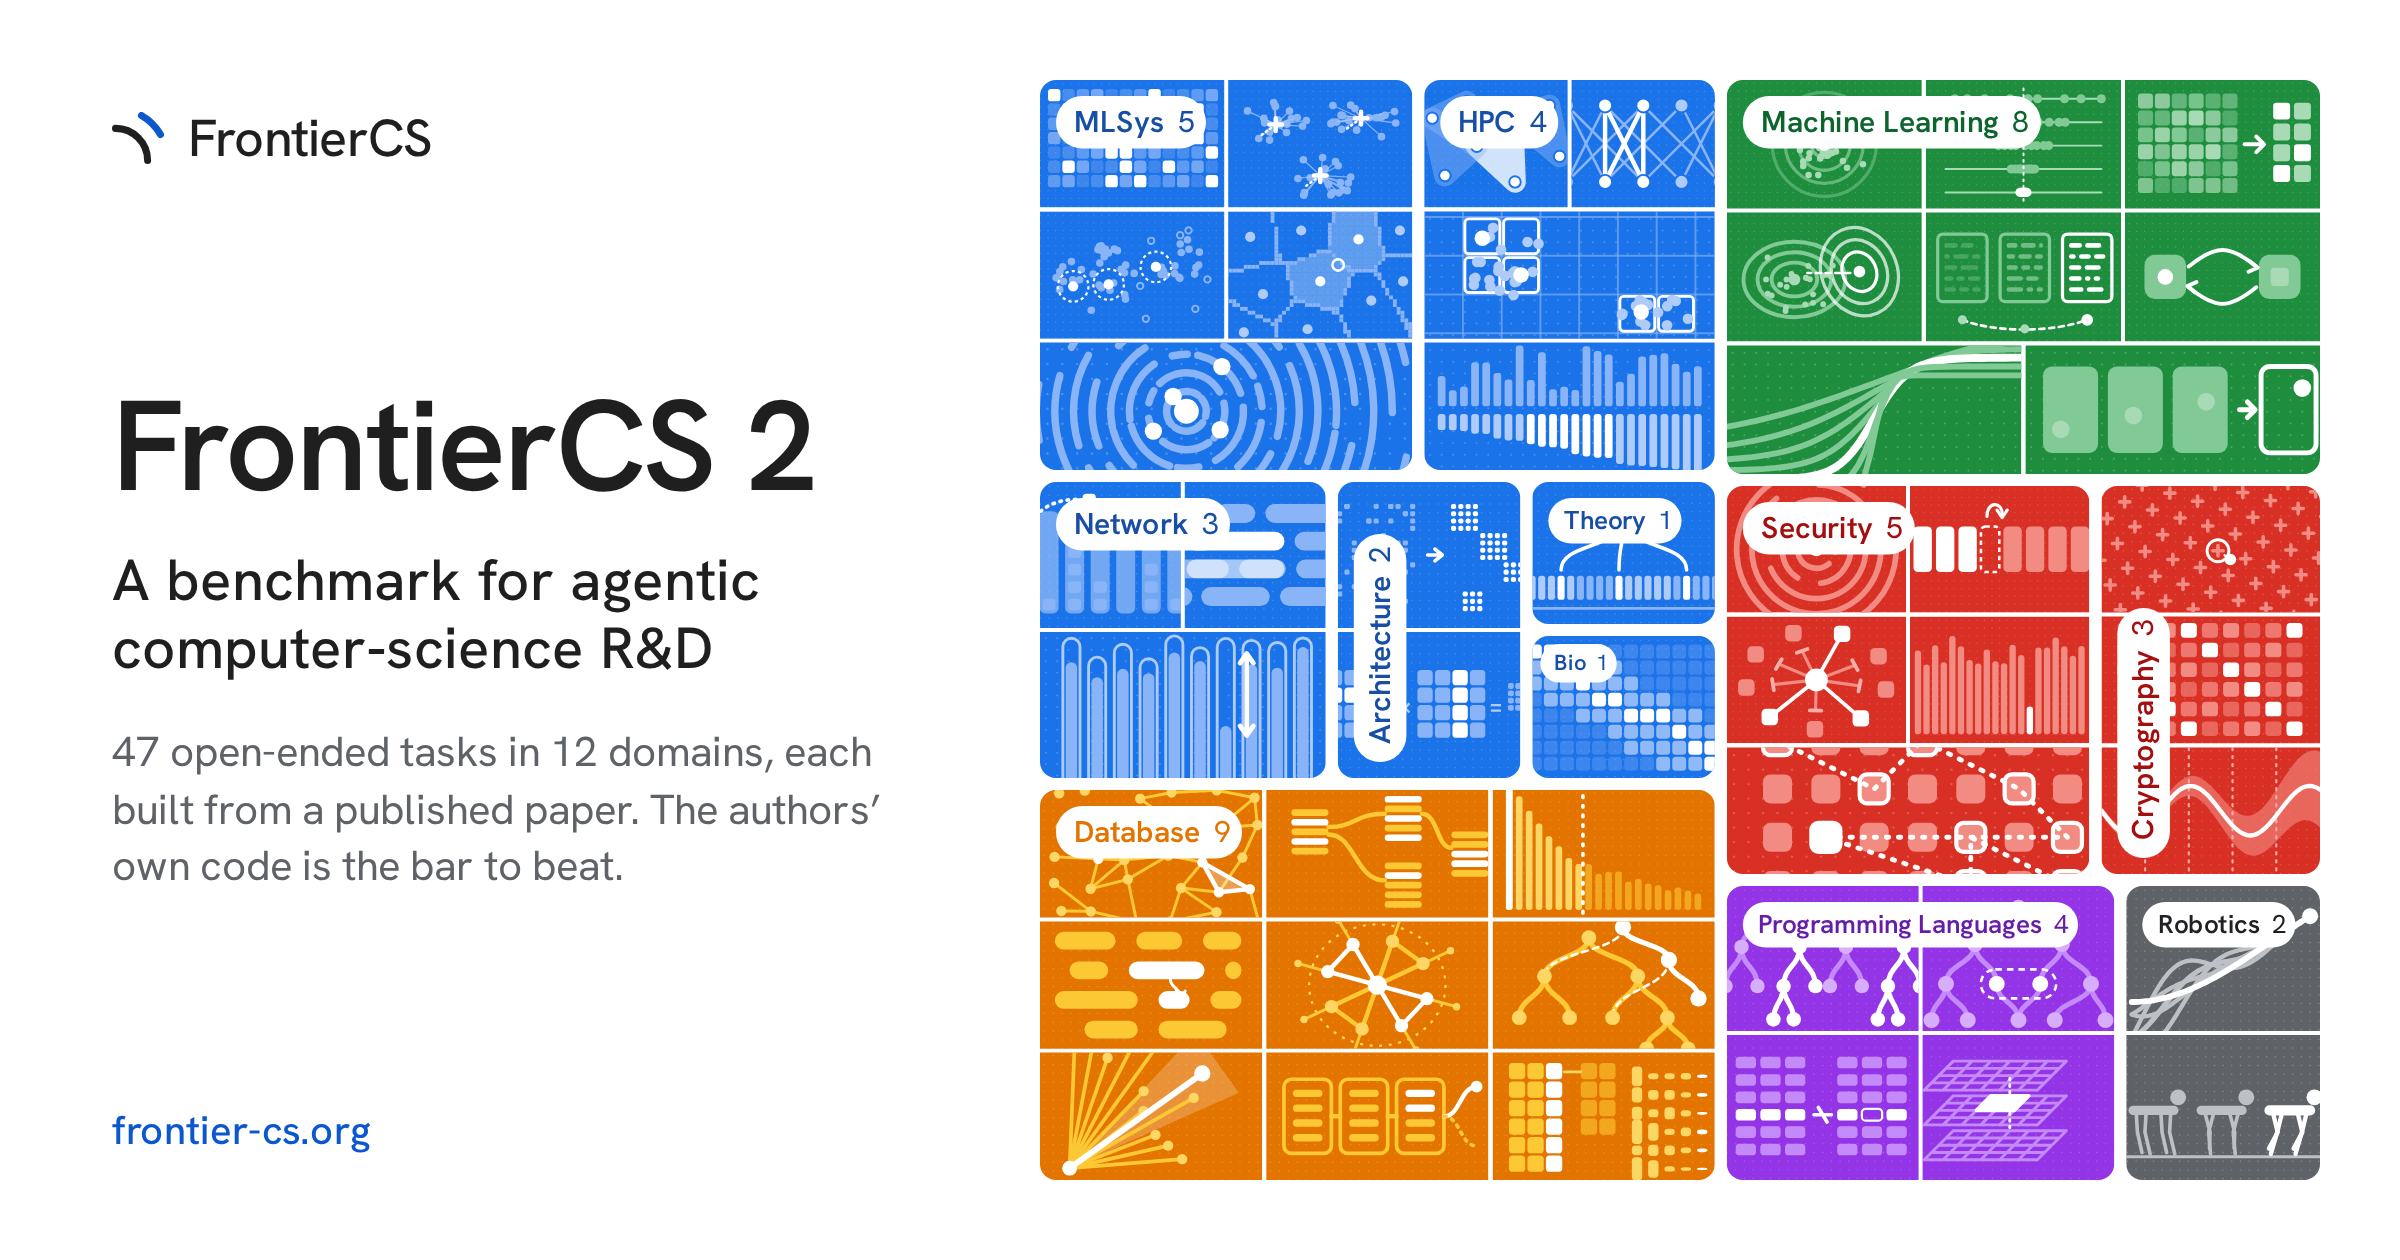
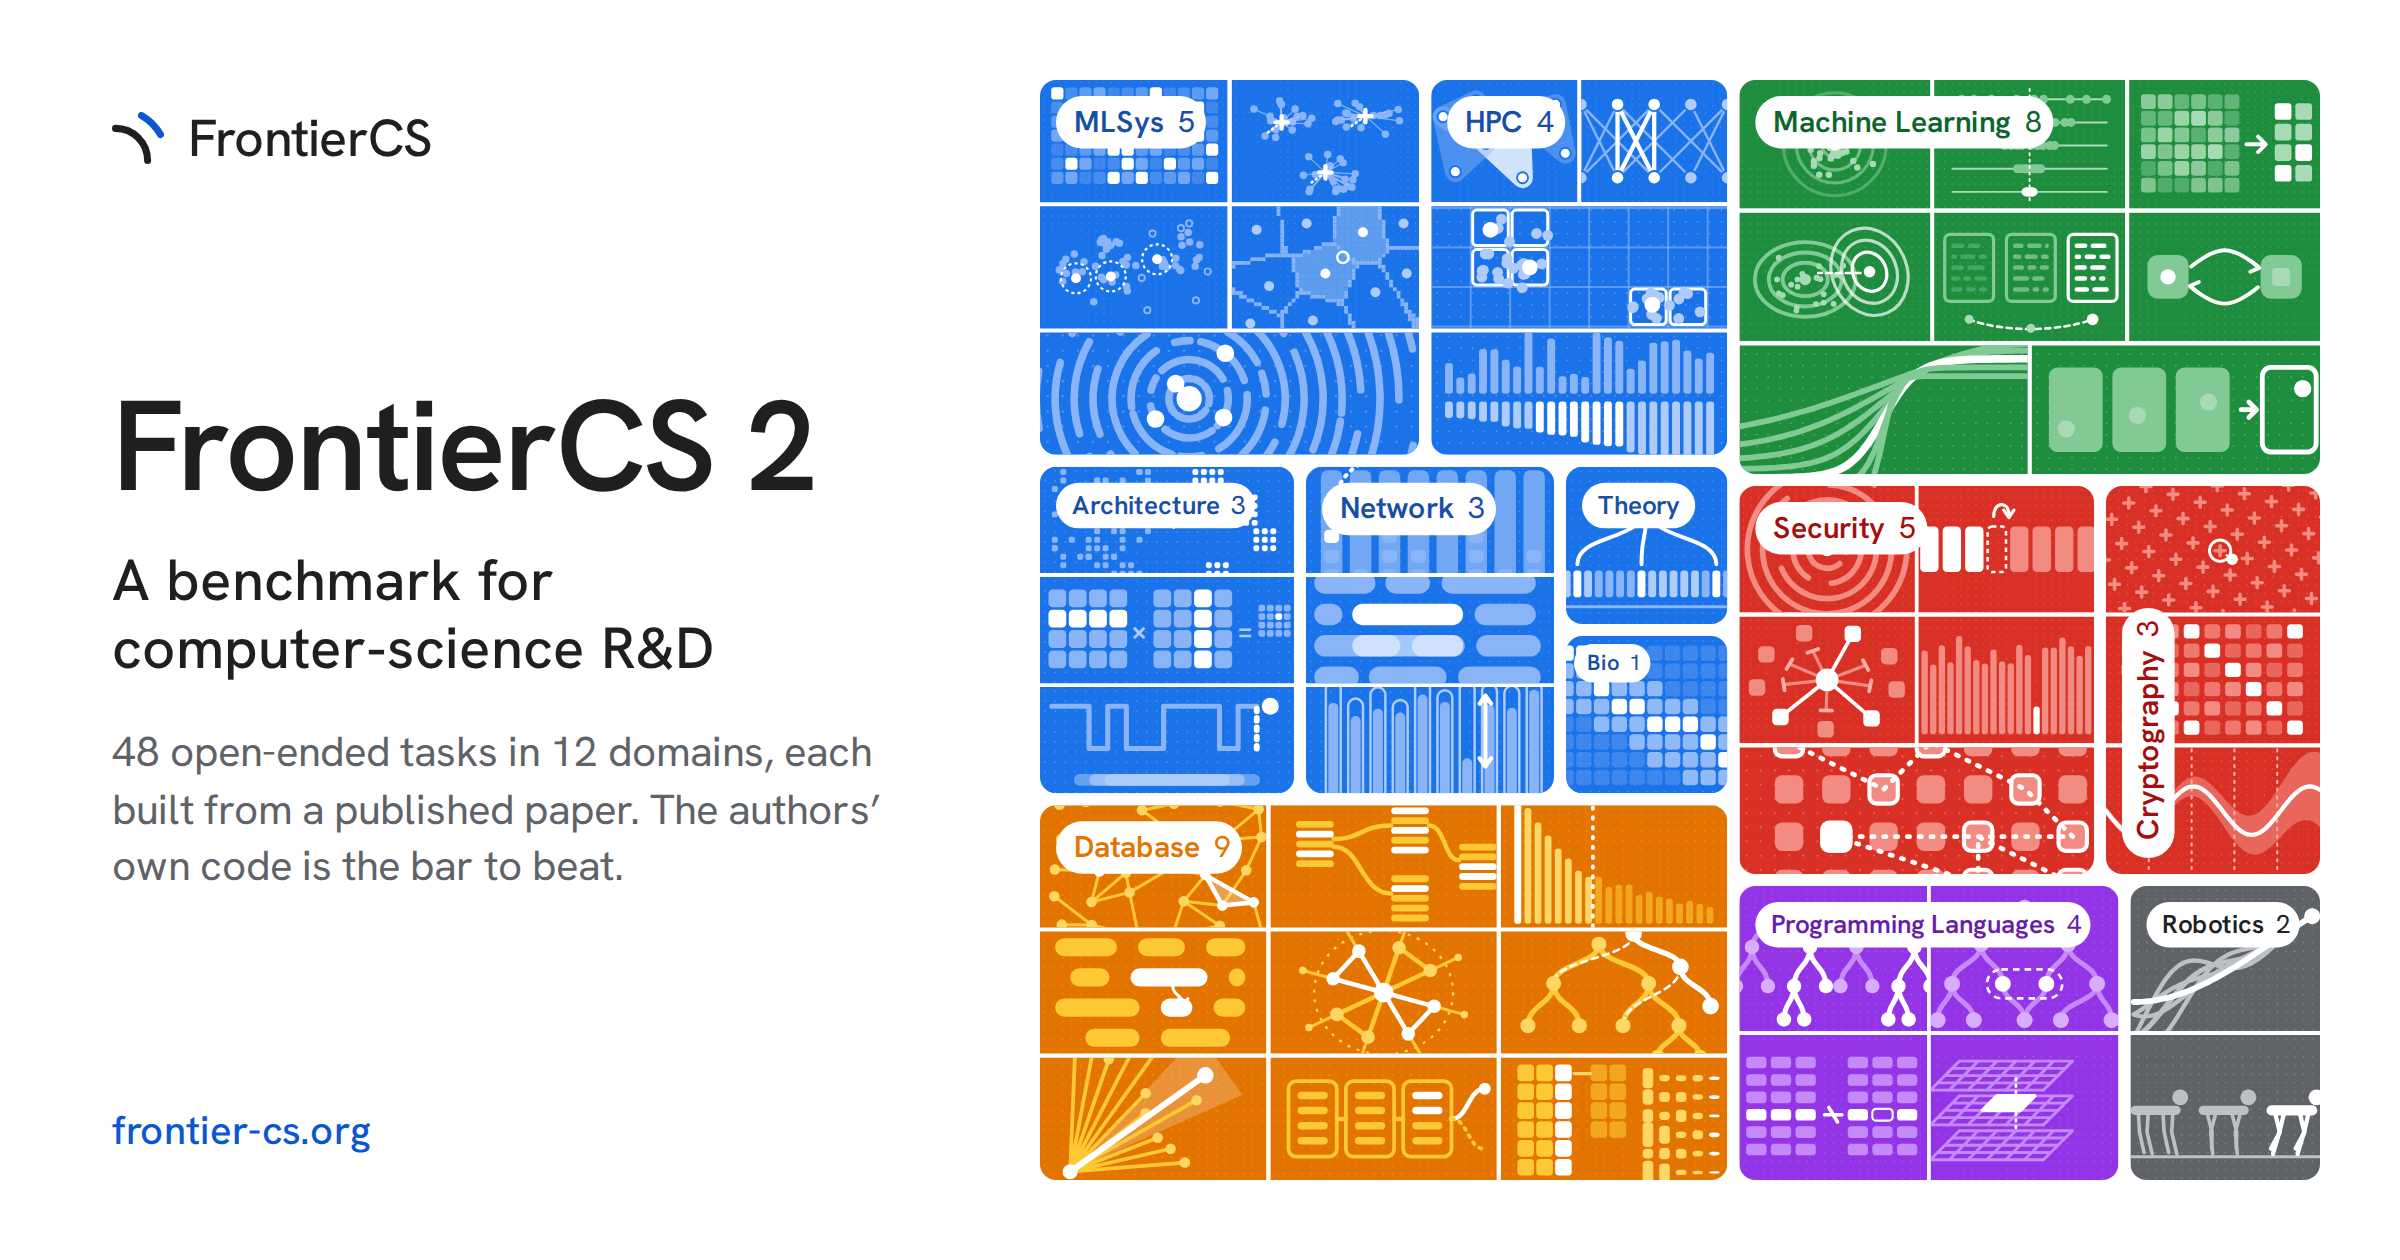
Muse models keep their version in short names; share card drops "agentic"
Phones showed "Muse Spark" and "Muse Wonder" on the map card, the leaderboard rows and the
per-domain table while every other model kept its version. Both now read "Muse Spark 1.3"
and "Muse Wonder 1.0" (data and converter). On the phone pass-rate chart a name with no
room beside its dot sheds its brand word ("Wonder 1.0", as Claude Opus 5.5 is "Opus 5.5")
before moving away from the dot; before, such a label was dropped.

The share card's subtitle now matches the page title (no "agentic"); card redrawn.

Claude-Session: https://claude.ai/code/session_01Gf3ooCfY2zLAYmtLQkeBGt

diff --git a/assets/js/fcs2.js b/assets/js/fcs2.js
@@ -86,7 +86,7 @@ function drawPassCost() {
     const lead = front.includes(m);
     svg.append(sv('circle', {cx, cy, r:lead ? 7.5 : 5, fill:MCOL[m.id], stroke:'#fff', 'stroke-width':2, 'data-m':m.id}));
     const lab = sv('text', {class:'lab halo', x:cx, y:cy}, name); svg.append(lab);
-    const w = lab.getComputedTextLength() + 2;
+    let w = lab.getComputedTextLength() + 2;
     // right, left, above, below, the four diagonals, then the same one and two lines further out; the first spot clear of every dot and placed label wins
     const spots = [[cx + 12, cy + 4.5, 'start'], [cx - 12, cy + 4.5, 'end'], [cx, cy - 13, 'middle'], [cx, cy + 22, 'middle'],
       [cx + 8, cy - 11, 'start'], [cx - 8, cy - 11, 'end'], [cx + 8, cy + 20, 'start'], [cx - 8, cy + 20, 'end'],
@@ -94,7 +94,12 @@ function drawPassCost() {
       [cx, cy - 49, 'middle'], [cx, cy + 58, 'middle'], [cx - 6, cy - 47, 'end'], [cx - 6, cy + 56, 'end']];
     const box = ([x, y, an]) => ({x:an === 'start' ? x : an === 'end' ? x - w : x - w / 2, y:y - 11, w, h:14});   // the glyphs' own height, so a label can sit beside its dot in a tight cluster
     const hit = q => boxes.some(o => q.x < o.x + o.w && o.x < q.x + q.w && q.y < o.y + o.h && o.y < q.y + q.h) || q.x < L || q.x + q.w > W || q.y < 0;
-    const spot = spots.find(sp => !hit(box(sp)));
+    // a name with no spot next to its dot sheds its brand word ("Muse Wonder 1.0" becomes "Wonder 1.0", as Claude Opus 5.5 is "Opus 5.5")
+    // before it moves a line or two away; a label is dropped only when neither form fits anywhere
+    const tight = /^\S+ (\S+ \d[\d.]*)$/.exec(name), forms = tight ? [name, tight[1]] : [name];
+    let spot;
+    for (const [str, from] of [...forms.map(f => [f, spots.slice(0, 8)]), ...forms.map(f => [f, spots])]) {
+      lab.textContent = str; w = lab.getComputedTextLength() + 2; spot = from.find(sp => !hit(box(sp))); if (spot) break; }
     if (spot) { boxes.push(box(spot)); lab.setAttribute('x', spot[0]); lab.setAttribute('y', spot[1]); lab.setAttribute('text-anchor', spot[2]);
       // a label wears its dot's colour, darkened to read on white, so a crowded patch still pairs each name with its dot
       lab.style.fill = `color-mix(in srgb, ${MCOL[m.id]} 78%, #000)`; if (lead) lab.style.fontWeight = 600; }

diff --git a/assets/js/fcs2-data.js b/assets/js/fcs2-data.js
@@ -110,12 +110,12 @@ const RUNS = [["glm", "Programming Languages", "Glenside", 90.49, 1], ["glm", "S
 const MODELS = [
   {id:'astra', name:'GPT-6 Astra', short:'GPT-6 Astra', h:'Codex CLI', lab:'OpenAI'},
   {id:'sol', name:'GPT-6.1 Sol', short:'GPT-6.1 Sol', h:'Codex CLI', lab:'OpenAI'},
-  {id:'muse', name:'Muse Spark 1.3', short:'Muse Spark', h:'Muse Code', lab:'Meta'},
+  {id:'muse', name:'Muse Spark 1.3', short:'Muse Spark 1.3', h:'Muse Code', lab:'Meta'},
   {id:'k3', name:'Kimi K3', short:'Kimi K3', h:'Kimi Code', lab:'Kimi'},
   {id:'ds', name:'DeepSeek V4.1 Flash', short:'DeepSeek V4.1 Flash', h:'DSH', lab:'DeepSeek'},
   {id:'glm', name:'GLM 5.3', short:'GLM 5.3', h:'ZCode', lab:'Z.ai'},
   {id:'opus', name:'Claude Opus 5.5', short:'Opus 5.5', h:'Claude Code', lab:'Anthropic'},
-  {id:'wonder', name:'Muse Wonder 1.0', short:'Muse Wonder', h:'Muse Code', lab:'Meta'},
+  {id:'wonder', name:'Muse Wonder 1.0', short:'Muse Wonder 1.0', h:'Muse Code', lab:'Meta'},
   {id:'qwen', name:'Qwen 3.8 Max', short:'Qwen 3.8 Max', h:'Codex CLI', lab:'Qwen'},
   {id:'glmf', name:'GLM 5.3 Flash', short:'GLM 5.3 Flash', h:'ZCode', lab:'Z.ai'},
 ];

diff --git a/bin/fcs2_runs_from_db.py b/bin/fcs2_runs_from_db.py
@@ -105,14 +105,14 @@ SHOWN = {'Arch': 'Architecture', 'Crypto': 'Cryptography', 'Programming Language
 MODEL = {
     'GPT-6 Astra': ('astra', 'GPT-6 Astra', 'GPT-6 Astra', 'Codex CLI', 'OpenAI'),
     'GPT-6.1 Sol': ('sol', 'GPT-6.1 Sol', 'GPT-6.1 Sol', 'Codex CLI', 'OpenAI'),
-    'Muse Code - Muse Spark 1.3': ('muse', 'Muse Spark 1.3', 'Muse Spark', 'Muse Code', 'Meta'),
+    'Muse Code - Muse Spark 1.3': ('muse', 'Muse Spark 1.3', 'Muse Spark 1.3', 'Muse Code', 'Meta'),
     'Kimi K3 (Modal)': ('k3', 'Kimi K3', 'Kimi K3', 'Kimi Code', 'Kimi'),
     'Kimi K2.7 Code': ('k27', 'Kimi K2.7 Code', 'Kimi K2.7', 'Kimi CLI', 'Kimi'),
     'Qwen 3.8 Max Code': ('qwen', 'Qwen 3.8 Max', 'Qwen 3.8 Max', '', 'Qwen'),   # shown without 'Code' (owner, 2026-10-09)
     'DeepSeek V4.1 Flash (DSH)': ('ds', 'DeepSeek V4.1 Flash', 'DeepSeek V4.1 Flash', 'DSH', 'DeepSeek'),
     'GLM 5.3 (ZCode)': ('glm', 'GLM 5.3', 'GLM 5.3', 'ZCode', 'Z.ai'),
     'Claude Code · Opus 5.5 (Subscription, max effort)': ('opus', 'Claude Opus 5.5', 'Opus 5.5', 'Claude Code', 'Anthropic'),
-    'Muse Code · Muse Wonder 1.0': ('wonder', 'Muse Wonder 1.0', 'Muse Wonder', 'Muse Code', 'Meta'),
+    'Muse Code · Muse Wonder 1.0': ('wonder', 'Muse Wonder 1.0', 'Muse Wonder 1.0', 'Muse Code', 'Meta'),
     'Codex · Qwen 3.8 Max': ('qwen', 'Qwen 3.8 Max', 'Qwen 3.8 Max', 'Codex CLI', 'Qwen'),
     'GLM 5.3 Flash (ZCode)': ('glmf', 'GLM 5.3 Flash', 'GLM 5.3 Flash', 'ZCode', 'Z.ai'),
 }

diff --git a/bin/fcs2_card.py b/bin/fcs2_card.py
@@ -36,7 +36,7 @@ svg#map text{{font-family:'Hanken Grotesk',sans-serif}}
 <div class="txt">
   <div class="brand"><svg viewBox="4.5 14.44 81.06 81.06"><path d="M10 40 A50 50 0 0 1 60 90" fill="none" style="stroke:var(--mk-in,#1f1f1f)" stroke-width="11" stroke-linecap="round"/><path d="M50.45 19.94 A80.9 80.9 0 0 1 80.06 49.55" fill="none" style="stroke:var(--mk-out,#0b57d0)" stroke-width="11" stroke-linecap="round"/></svg>FrontierCS</div>
   <h1>FrontierCS 2</h1>
-  <p class="sub">A benchmark for agentic computer&#8209;science R&amp;D</p>
+  <p class="sub">A benchmark for computer&#8209;science R&amp;D</p>
   <p class="lead" id="lead"></p>
   <div class="url">frontier-cs.org</div>
 </div>
